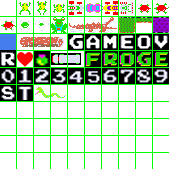
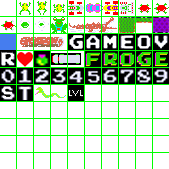
pokook

Changed region(s): [[0.3846, 0.503, 0.503, 0.6213]]

diff --git a/frogger.m b/frogger.m
@@ -1,6 +1,6 @@
-clc                     
-clear                   
-close all           
+clc
+clear
+close all
 
 % Set up initial global variables for the game environment and script
 global scn;
@@ -19,6 +19,7 @@ global bushPos;
 global difficulty;
 global speed;
 global level;
+global multiplier;
 
 % Set background color for the game and create the game engine
 bgColor = [0, 0, 0];
@@ -30,17 +31,21 @@ set(f, 'Position', [10, 10, 10, 10]);
 % Set the initial position of the frog, starting amount of points to zero,
 % initial speed to 1, and difficuty to zero
 frogPos = [11, 6];
-points = 0;             
+points = 0;
 lives = 5;
 
 
-speed = 1;
 difficulty = 0;
-level = 1
+level = 1;
+multiplier = 0.9;
+speed = (-0.2 * log((level+1)/3) + 0.8) * multiplier;
+
+
 
 bushPos = 1:2:11;
 
 enemies = [15, 16, 17, 7, 5, 6];
+% enemies = 0;
 
 
 movementRows = [2:5, 7:9];
@@ -125,7 +130,7 @@ blankL(frogPos(1), frogPos(2)) = 2;
 while true
     movementSpriteControl();
     refreshScene();
-    pause(1);
+    pause(speed);
 end
 
 

diff --git a/refreshScene.m b/refreshScene.m
@@ -7,18 +7,23 @@ global bottomL;
 global blankL
 global f;
 global lives;
+global speed;
+global level;
 
 % If the frog's lives become zero, refresh scene with GAME OVER sprites on
 % the blank layer
 
 if lives == 0
     blankL(6, :) = [1, 25, 26, 27, 28, 1, 29, 30, 28, 31, 1];
+    speed = 0.1;
 
 end
 
-onesDigit = mod(points, 10);
-tensDigit = floor(mod(points, 100) / 10);
-blankL(12,:) = [33, numPref(tensDigit), numPref(onesDigit), 1, 1, 1, 1, 1, 1, 32, numPref(lives)];
+onesDigitP = onesDigit(points);
+tensDigitP = tensDigit(points)
+onesDigitL = onesDigit(level);
+tensDigitL = tensDigit(level)
+blankL(12,:) = [33, numPref(tensDigitP), numPref(onesDigitP), 1, 55, numPref(tensDigitL), numPref(onesDigitL), 1,1, 32, numPref(lives)];
 
 
 drawScene(scn, bottomL, topL, blankL);

diff --git a/gameEndCheck.m b/gameEndCheck.m
@@ -15,6 +15,7 @@ global bushPos;
 global difficulty;
 global speed;
 global level;
+global multiplier;
 
 % Check whether the frogger is in both the first row and one of the
 % positions in the bushes
@@ -32,7 +33,7 @@ if ((frogPos(2) == 2 || frogPos(2) == 4 || frogPos(2) == 6 || frogPos(2) == 8 ||
     if frog == 5
         level = level + 1;
         topL(1, :) = [1, 1, 1, 1, 1, 1, 1, 1, 1, 1, 1];
-        speed = -0.2 * log((level+1)/3) + 0.8;
+        speed = (-0.2 * log((level+1)/3) + 0.8) * multiplier;
         topL = [1, 1, 1, 1, 1, 1, 1, 1, 1, 1, 1; ...
             22, 23, 24, 1, 22, 24, 1, 1, 15, 16, 17; ...
             1, 22, 23, 23, 24, 1, 1, 22, 23, 24, 1; ...

diff --git a/tensDigit.m b/tensDigit.m
@@ -1,0 +1,3 @@
+function tens = tensDigit(value)
+tens = floor(mod(value, 100) / 10);
+end

diff --git a/onesDigit.m b/onesDigit.m
@@ -1,0 +1,3 @@
+function one = onesDigit(value)
+one = mod(value, 10);
+end
